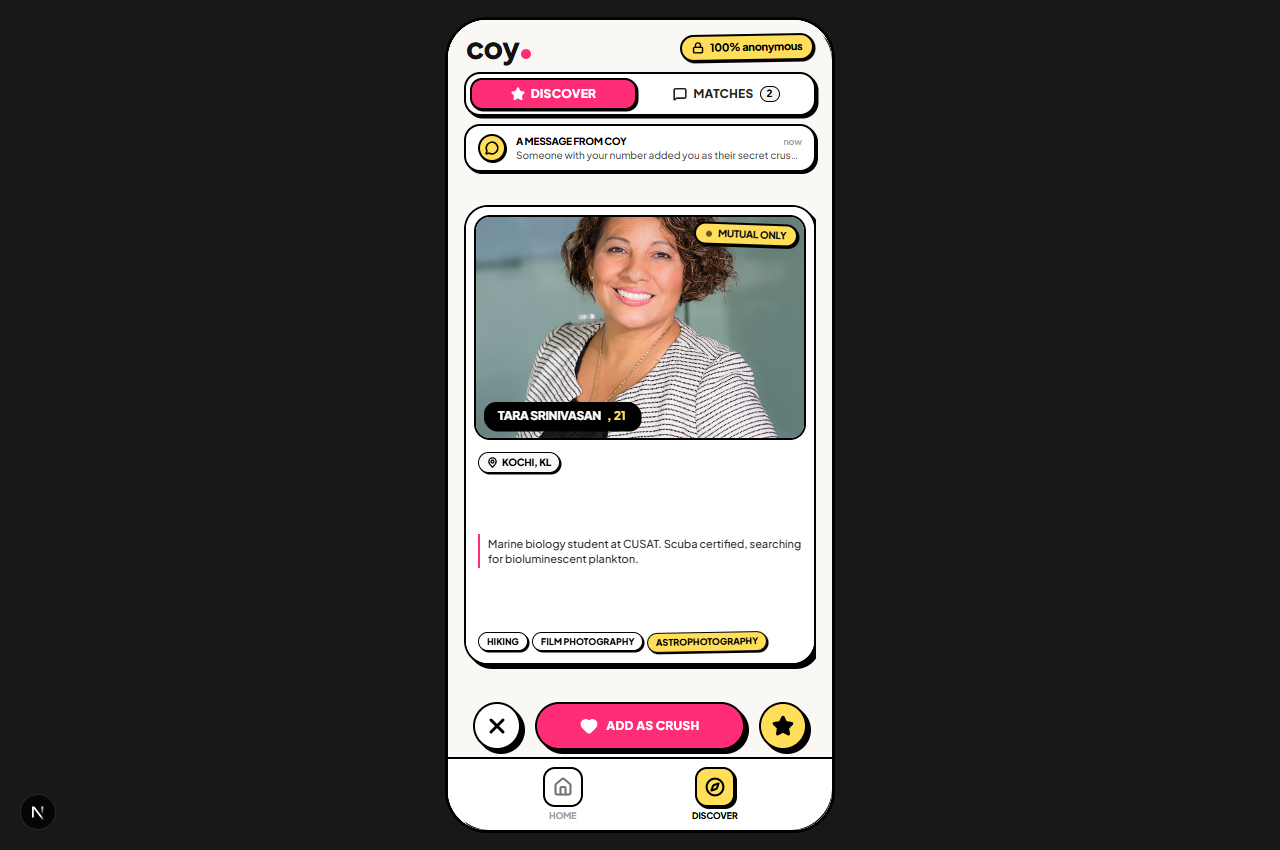
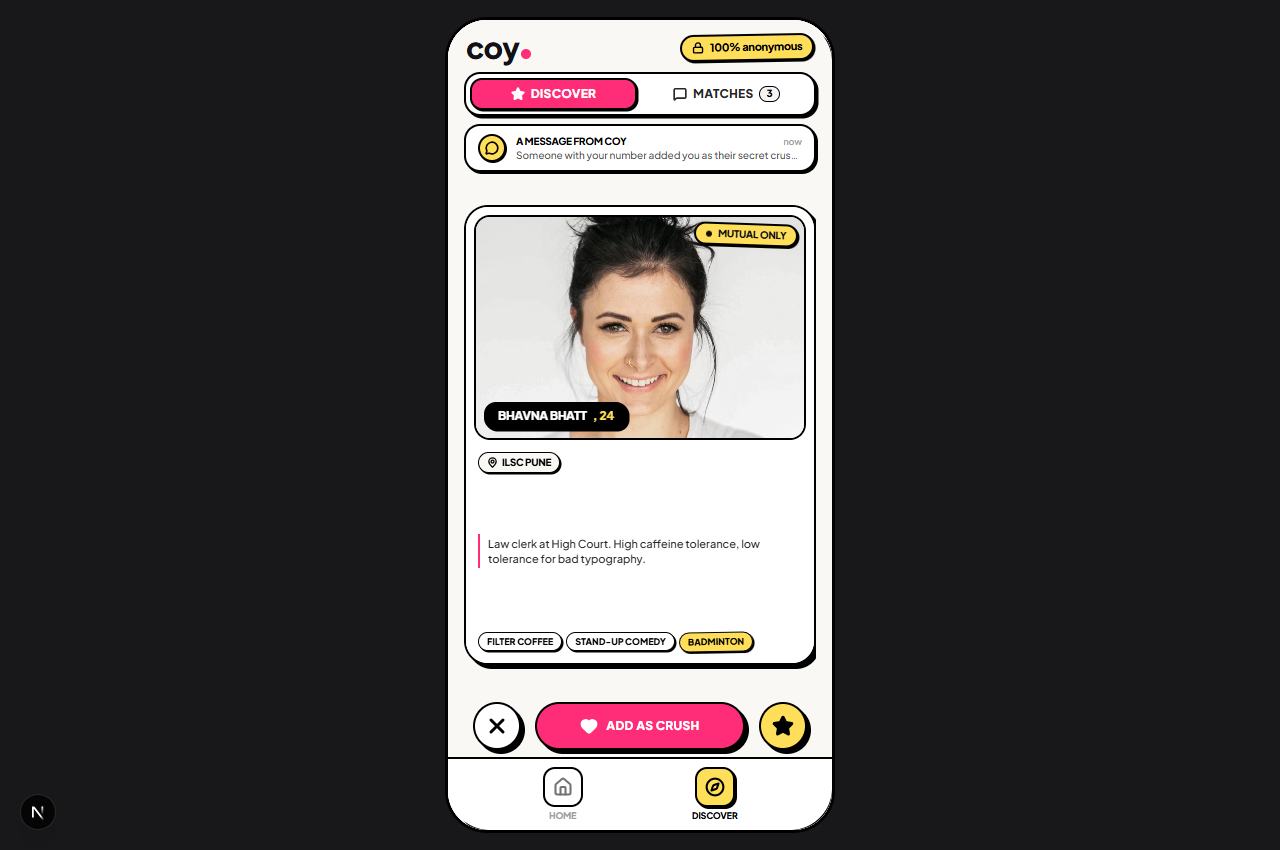
feat(web): add Next.js reverse proxy for seamless port forwarding and mobile access

diff --git a/web/next.config.ts b/web/next.config.ts
@@ -14,6 +14,16 @@ const nextConfig: NextConfig = {
       },
     ],
   },
+  async rewrites() {
+    const backendUrl =
+      process.env.INTERNAL_BACKEND_URL || "http://127.0.0.1:4000";
+    return [
+      {
+        source: "/api/backend/:path*",
+        destination: `${backendUrl}/:path*`,
+      },
+    ];
+  },
 };
 
 export default nextConfig;

diff --git a/web/lib/api-client.ts b/web/lib/api-client.ts
@@ -12,7 +12,7 @@ export class ApiError extends Error {
 }
 
 const BASE_URL =
-  process.env["NEXT_PUBLIC_API_URL"] ?? "http://localhost:4000";
+  process.env["NEXT_PUBLIC_API_URL"] || "/api/backend";
 
 interface RequestOptions extends Omit<RequestInit, "body"> {
   body?: unknown;
